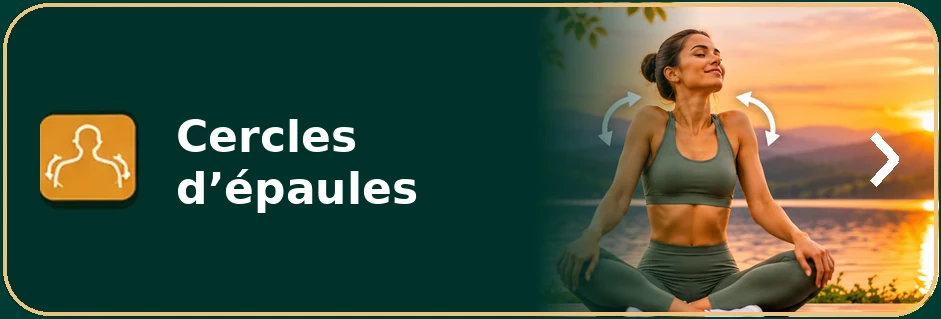
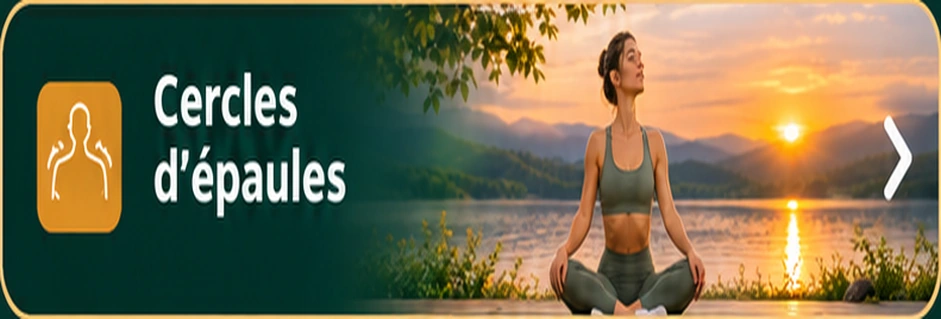
Add files via upload

diff --git a/etirements-epaules-v12.js b/etirements-epaules-v12.js
@@ -1,5 +1,5 @@
-/* Sport & Nutrition — Étirements / Épaules & bras V12 — 14/11/2026.
-   Réglage VISUEL uniquement après le correctif V11 :
+/* Sport & Nutrition — Étirements / Épaules & bras V13 — 14/11/2026.
+   Réglage VISUEL uniquement après le correctif V12 :
    - Les 10 bandeaux individuels gardent le ratio et leur affichage complet, sans étirement.
    - Les fiches héritent du style aéré de Nuque & cervicales : titres lisibles,
      panneau « Comment faire », conseils, bienfaits, 4 informations bien visibles.
@@ -171,9 +171,9 @@
         if(hero){
           const n=(idx<0?1:idx+1);
           hero.style.setProperty('background-image',
-            'linear-gradient(90deg,rgba(0,49,42,.96) 0%,rgba(0,49,42,.88) 37%,rgba(0,49,42,.12) 79%,transparent 100%),url("./etirements-epaules-photo-'+n+'-v11.webp?v=11")','important');
+            'linear-gradient(90deg,rgba(0,49,42,.94) 0%,rgba(0,49,42,.76) 28%,rgba(0,49,42,.28) 56%,rgba(0,49,42,0) 77%),url("./etirements-epaules-photo-'+n+'-v11.webp?v=13")','important');
           hero.style.setProperty('background-size','cover','important');
-          hero.style.setProperty('background-position','right center','important');
+          hero.style.setProperty('background-position','58% center','important');
         }
       }
     }
